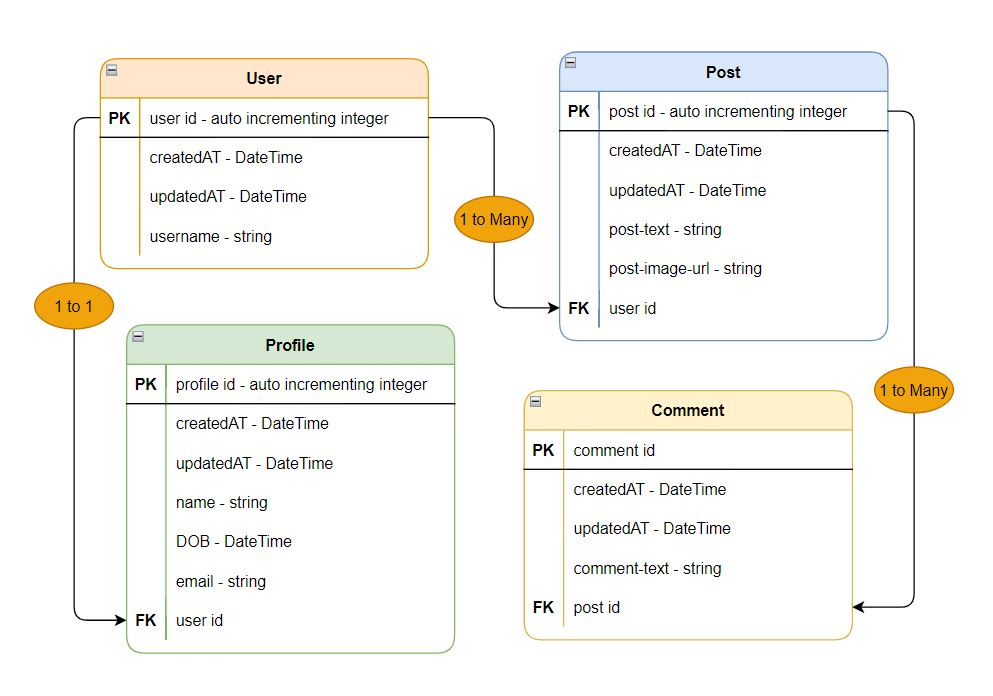
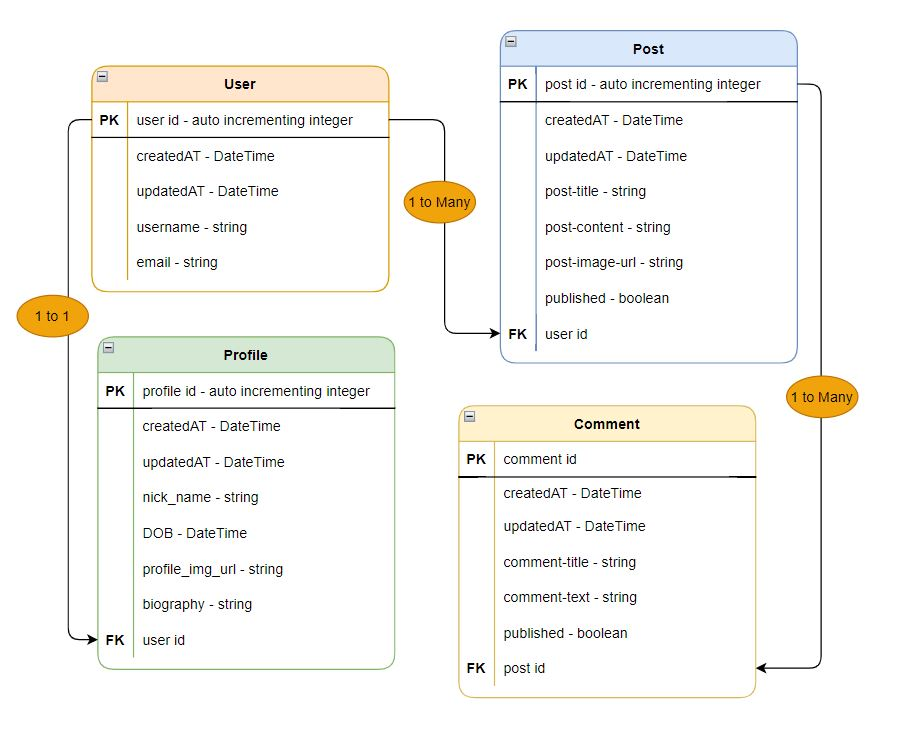
all requirements completed

Changed region(s): [[0.0, 0.0302, 0.9835, 0.9655]]

diff --git a/prisma/seed.js b/prisma/seed.js
@@ -1,28 +1,94 @@
-const { PrismaClient } = require('@prisma/client');
+const { PrismaClient } = require("@prisma/client");
 const prisma = new PrismaClient();
 
 async function seed() {
-    const createdUsers = await prisma.user.createMany({
-        data: [
-            { username: 'alicemartin' },
-            { username: 'alicemartin' }
-        ]
-    });
+  const createdUsers = await prisma.user.createMany({
+    data: [
+      { username: "a.martin", email: "alice@martin.com" },
+      { username: "p_picasso", email: "pablo@picasso.es" },
+      { username: "mr_mistoo", email: "mr_mistoffelees@cats.com" },
+    ],
+  });
 
-    console.log(`${createdUsers.count} users created`, createdUsers);
+  const createdProfiles = await prisma.profile.createMany({
+    data: [
+      {
+        nickName: "Alice",
+        DOB: "19/08/1980",
+        profileImgUrl: "https://www.alice.com",
+        biography: "I am Alice, I am Alice, I am Alice.",
+        userId: 1,
+      },
+      {
+        nickName: "Pablito",
+        DOB: "28/10/1881",
+        profileImgUrl: "https://www.picasso.es",
+        biography: "I am Picasso...Pablo Picasso...and i paint.",
+        userId: 2,
+      },
+      {
+        nickName: "Mr. Mistoffelees",
+        DOB: "19/08/1993",
+        profileImgUrl: "https://www.conjuring-cat.com",
+        biography: "I am the conjuring cat.",
+        userId: 3,
+      },
+    ],
+  });
 
-    // Add your code here
+  const createdPosts = await prisma.post.createMany({
+    data: [
+      {
+        title: "My first post",
+        content: "As this is my first post i will keep it very short.",
+        published: false,
+        imgUrl: "https://www.alice-post.com",
+        userId: 1,
+      },
+      {
+        title: "Such a happy day",
+        content: "The weather is sunny, i am happy.",
+        published: true,
+        imgUrl: "https://www.happy-day.com",
+        userId: 2,
+      },
+      {
+        title: "My second post",
+        content: "This is my second post, so I am Alice.",
+        published: true,
+        userId: 1,
+      },
+    ],
+  });
 
-    
+  const createdComments = await prisma.comment.createMany({
+    data: [
+      {
+        title: "I like your post",
+        content: "Very very very much agree on this",
+        published: true,
+        postId: 2,
+      },
+      {
+        title: "Comment Title...",
+        content: "I am having a very happy day too.",
+        published: true,
+        postId: 2,
+      },
+    ],
+  });
 
+  console.log(`${createdUsers.count} users created`, createdUsers);
+  console.log(`${createdProfiles.count} profiles created`, createdProfiles);
+  console.log(`${createdPosts.count} posts created`, createdPosts);
+  console.log(`${createdComments.count} comments created`, createdComments);
 
-    // Don't edit any of the code below this line
-    process.exit(0);
+  // Don't edit any of the code below this line
+  process.exit(0);
 }
 
-seed()
-    .catch(async (error) => {
-        console.error(error);
-        await prisma.$disconnect();
-        process.exit(1);
-    })
+seed().catch(async (error) => {
+  console.error(error);
+  await prisma.$disconnect();
+  process.exit(1);
+});
